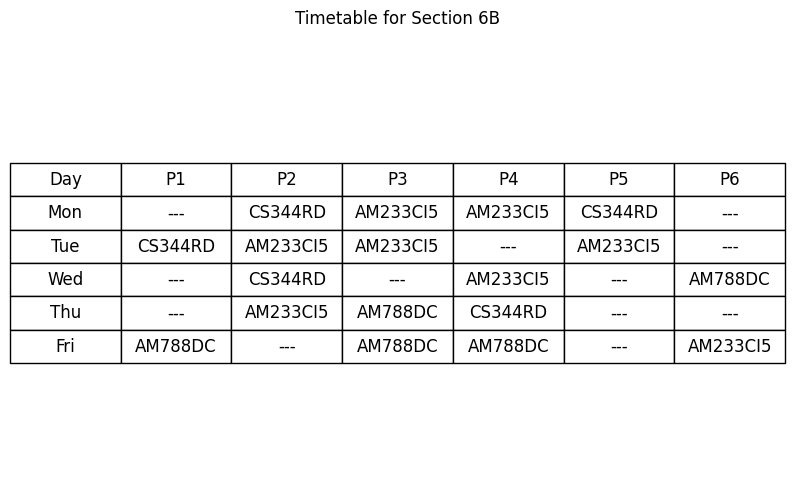
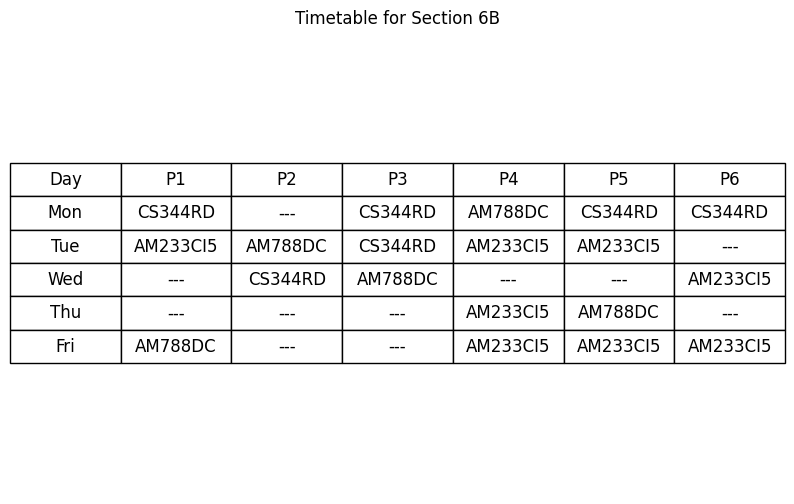
Final push

diff --git a/backend/server.js b/backend/server.js
@@ -10,9 +10,9 @@ const PORT = 5000;
 const __filename = fileURLToPath(import.meta.url);
 const __dirname = path.dirname(__filename);
 
-// Middleware
 app.use(cors());
 app.use(express.json());
+app.use('/output', express.static(path.join(__dirname, 'output')));
 
 // SQLite setup
 const dbPath = path.resolve(__dirname, 'timetable.db');
@@ -25,61 +25,28 @@ const db = new sqlite3.Database(dbPath, (err) => {
 });
 
 // Create batches table
-db.run(`
-  CREATE TABLE IF NOT EXISTS batches (
+db.run(`CREATE TABLE IF NOT EXISTS batches (
     id INTEGER PRIMARY KEY AUTOINCREMENT,
     year INTEGER NOT NULL,
     section TEXT NOT NULL,
     subjectCodes TEXT NOT NULL
-  )
-`, (err) => {
+)`, (err) => {
   if (err) console.error("Batch table creation error:", err);
   else console.log("Batches table is ready.");
 });
 
 // Create teachers table
-db.run(`
-  CREATE TABLE IF NOT EXISTS teachers (
+db.run(`CREATE TABLE IF NOT EXISTS teachers (
     id INTEGER PRIMARY KEY AUTOINCREMENT,
     name TEXT NOT NULL,
     subjectCode TEXT NOT NULL,
     subjectName TEXT NOT NULL,
     credits INTEGER NOT NULL,
-    isLab INTEGER NOT NULL,  -- 1 for lab, 0 for regular
-    sections TEXT NOT NULL   -- Comma-separated list of sections
-  )
-`, (err) => {
+    isLab INTEGER NOT NULL,
+    sections TEXT NOT NULL
+)`, (err) => {
   if (err) console.error("Teachers table creation error:", err);
   else console.log("Teachers table is ready.");
-});
-
-// POST /api/batches - Add a new batch
-app.post('/api/batches', (req, res) => {
-  const { year, sections } = req.body;
-  if (!year || !sections || !Array.isArray(sections) || sections.length === 0) {
-    return res.status(400).json({ error: "Invalid batch data." });
-  }
-
-  // Only one section per request (as per your frontend)
-  const sectionObj = sections[0];
-  if (!sectionObj.name || !sectionObj.subjects || !Array.isArray(sectionObj.subjects) || sectionObj.subjects.length === 0) {
-    return res.status(400).json({ error: "Invalid section data." });
-  }
-
-  const section = sectionObj.name;
-  const subjectCodes = sectionObj.subjects.map(s => s.trim()).join(',');
-
-  db.run(
-    `INSERT INTO batches (year, section, subjectCodes) VALUES (?, ?, ?)`,
-    [year, section, subjectCodes],
-    function (err) {
-      if (err) {
-        console.error("DB insert error:", err);
-        return res.status(500).json({ error: "Failed to add batch." });
-      }
-      return res.status(201).json({ message: "Batch added successfully!", batchId: this.lastID });
-    }
-  );
 });
 
 // POST /api/generate-timetable
@@ -114,7 +81,6 @@ app.post('/api/generate-timetable', (req, res) => {
             return res.status(500).json({ error: "Database query failed" });
           }
 
-          // Build subjects array for timetable generation
           const subjects = teacherRows.map(row => ({
             subject_name: row.subjectName,
             teacher_name: row.name,
@@ -123,9 +89,7 @@ app.post('/api/generate-timetable', (req, res) => {
             subject_code: row.subjectCode,
           }));
 
-          // Generate timetable
           const timetable = generateTimetable(subjects);
-
           return res.status(200).json({ timetable });
         }
       );
@@ -156,7 +120,6 @@ const generateTimetable = (subjects) => {
     }
   });
 
-  // Fill empty slots with null or "---"
   for (const day of days) {
     for (let i = 0; i < periodsPerDay; i++) {
       if (timetable[day][i] === undefined) timetable[day][i] = "---";

diff --git a/src/components/GenerateTT.jsx b/src/components/GenerateTT.jsx
@@ -15,7 +15,6 @@ const GenerateTT = () => {
       return;
     }
 
-    // Make API call to backend to generate the timetable
     try {
       const response = await fetch("http://localhost:5000/api/generate-timetable", {
         method: "POST",
